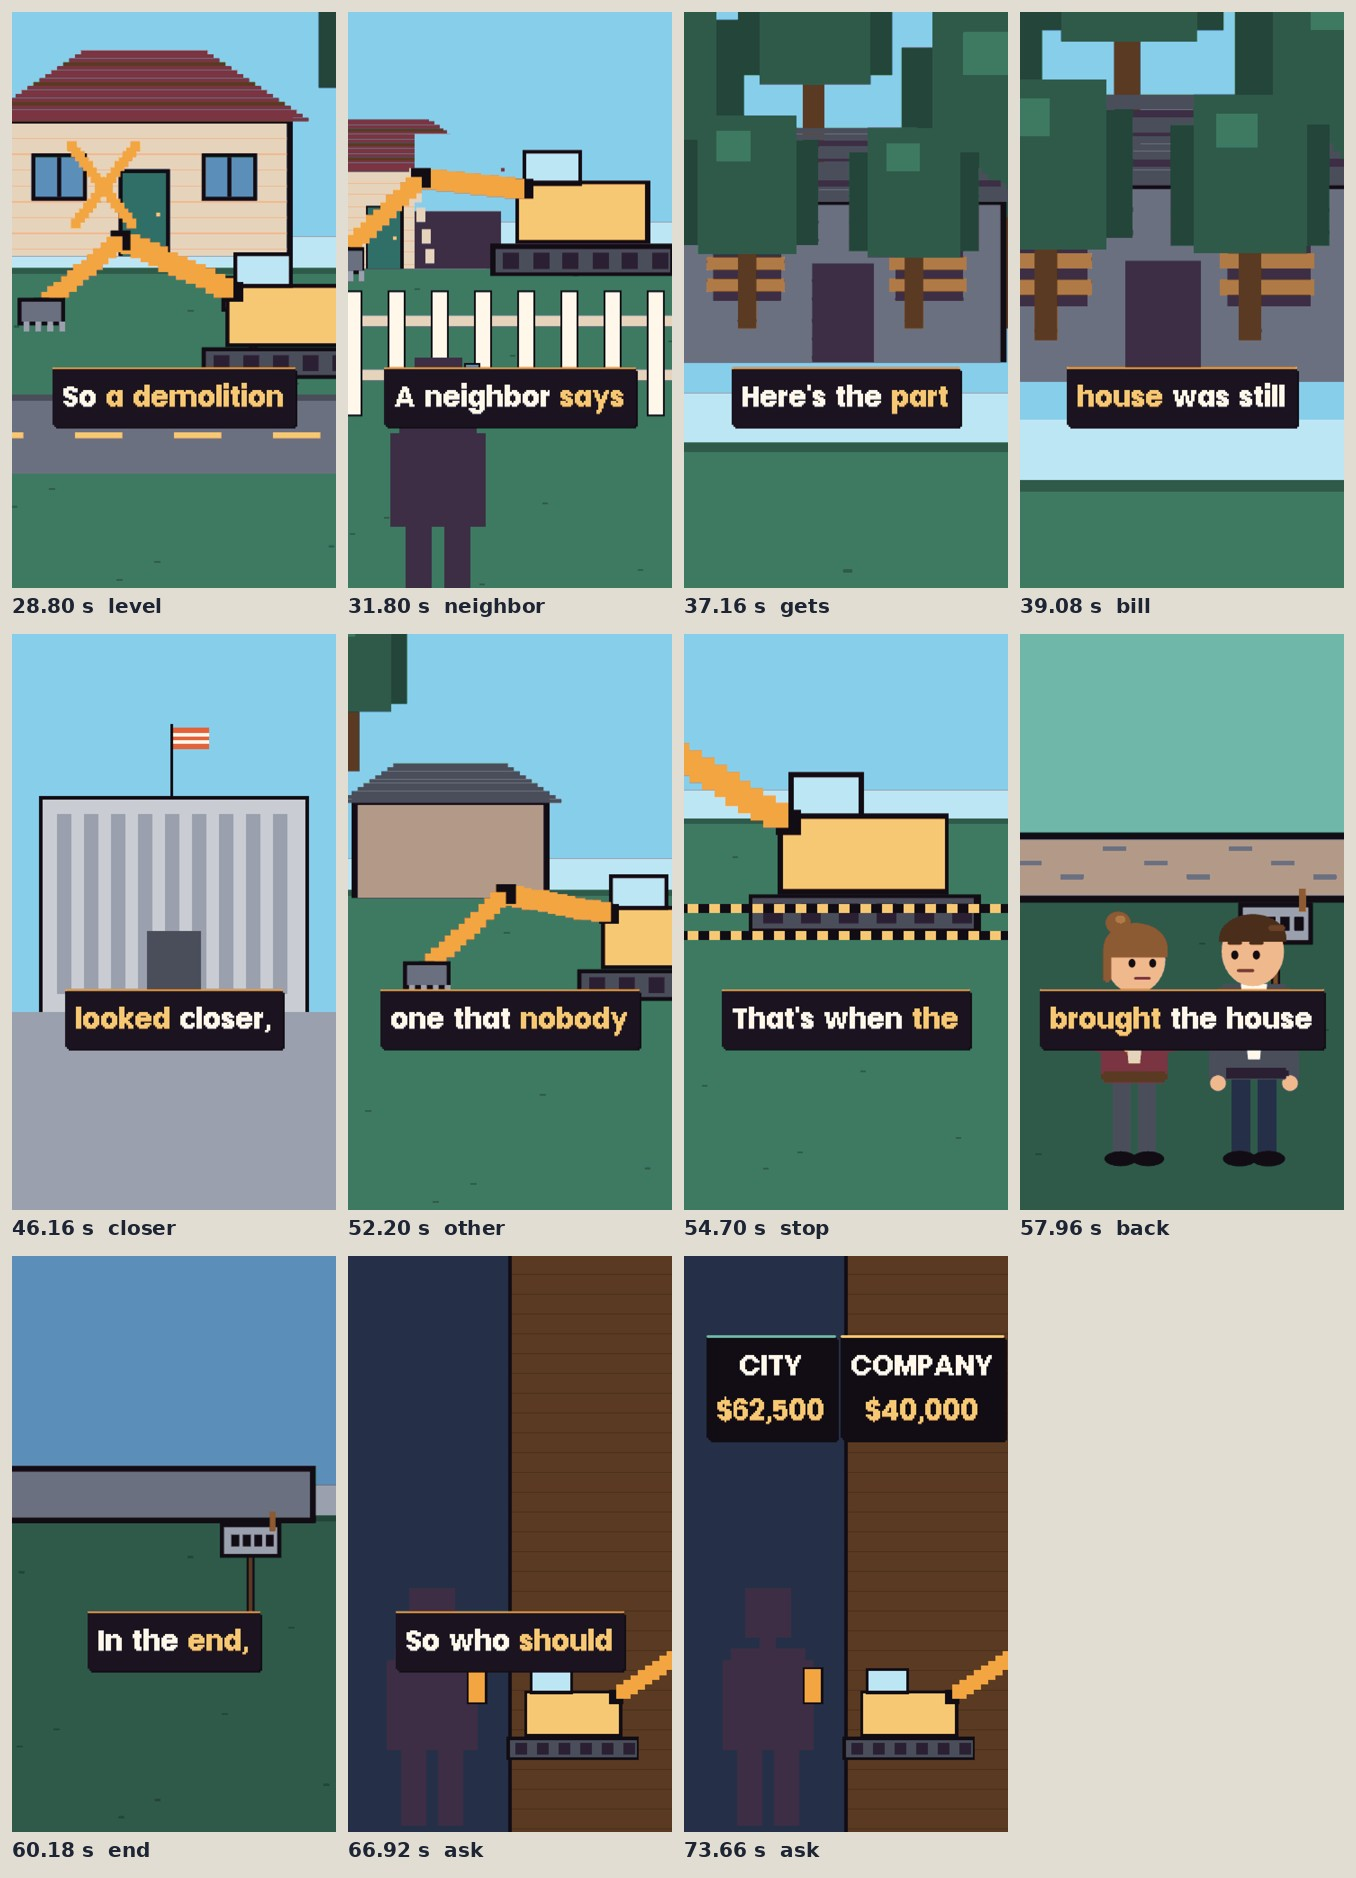
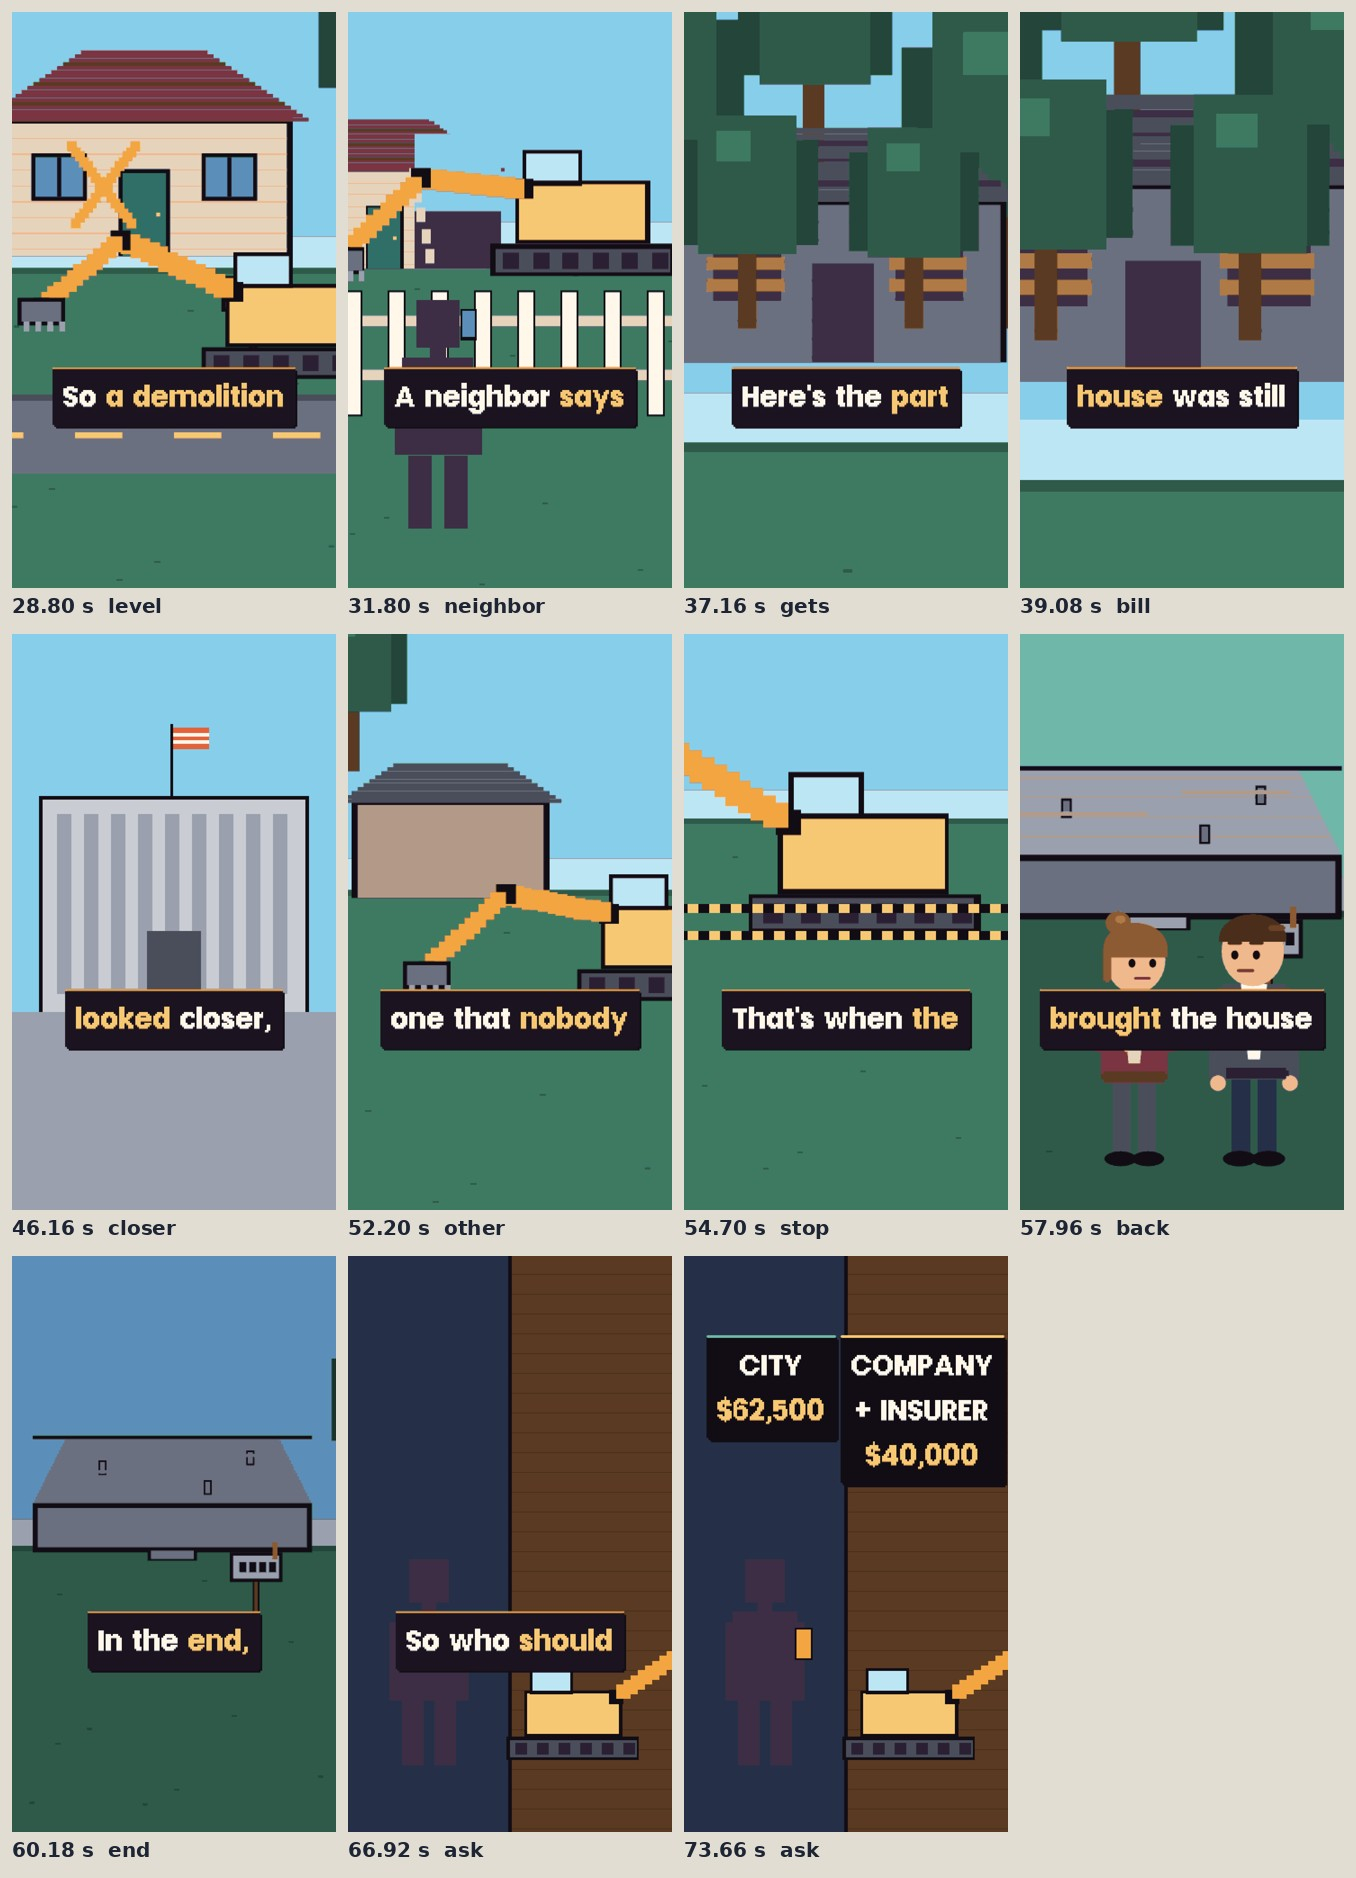
studio: 2026-12-05-wrong-house render 5 (render critic, viewer and facts r0 fixes: heads above captions, faded mailbox, COMPANY + INSURER, wire copy in Source)
Claude-Session: https://claude.ai/code/session_01XMn4eLMGN11Nq3bXeBgpFU

diff --git a/video/studio/videos/2026-12-05-wrong-house/04_scene/scene.js b/video/studio/videos/2026-12-05-wrong-house/04_scene/scene.js
@@ -70,7 +70,7 @@ const mailbox = (P, x, y, s = 1, faded = false) => {
   P(x - 2 * s, y, 4 * s, 46 * s, INK); P(x - 1 * s, y, 2 * s, 46 * s, '#8C5A33');
   P(x - 16 * s, y - 16 * s, 32 * s, 18 * s, INK); P(x - 14 * s, y - 14 * s, 28 * s, 14 * s, faded ? '#8E949E' : '#C9CCD3');
   P(x + 10 * s, y - 22 * s, 3 * s, 10 * s, faded ? '#7A3442' : RED);
-  if (faded) { for (let i = 0; i < 4; i++) P(x - 10 * s + i * 6 * s, y - 9 * s, 3 * s, 4 * s, '#A6ABB4'); }
+  if (faded) { P(x - 14 * s, y - 14 * s, 28 * s, 14 * s, '#7E848C'); P(x - 10 * s, y - 6 * s, 8 * s, 4 * s, '#8C5A33'); P(x + 2 * s, y - 12 * s, 6 * s, 3 * s, '#6E5040'); for (let i = 0; i < 4; i++) P(x - 10 * s + i * 6 * s, y - 9 * s, 3 * s, 2 * s, '#868C94'); }
   else { for (let i = 0; i < 4; i++) P(x - 10 * s + i * 6 * s, y - 10 * s, 4 * s, 6 * s, INK); }
 };
 /* their house: a small three-bedroom house; st 'whole', 'hit' (a bite out of it), 'rubble' */
@@ -87,6 +87,8 @@ const home = (P, x, y, s = 1, st = 'whole') => {
   P(x + 62 * s, y + 26 * s, 26 * s, 44 * s, INK); P(x + 64 * s, y + 28 * s, 22 * s, 42 * s, DTEAL); P(x + 81 * s, y + 48 * s, 2 * s, 2 * s, GOLD);
   if (st === 'hit') { P(x + 96 * s, y - 24 * s, 60 * s, 94 * s, SKY); P(x + 96 * s, y + 30 * s, 60 * s, 40 * s, '#3F3A38'); for (let i = 0; i < 5; i++) P(x + (92 + i * 3) * s, y + (i * 14) * s, 6 * s, 10 * s, SAND); }
 };
+/* brush: tall weeds around a point */
+const brush = (P, x, y) => { for (let i = 0; i < 16; i++) { const h = 10 + (i * 7) % 14; P(x - 40 + i * 5, y - h, 3, h, i % 2 ? '#2F5A4A' : '#24453A'); } };
 /* the condemned house, back in the trees: boarded, sagging */
 const wreck = (P, x, y, s = 1) => {
   const w = 120 * s, h = 60 * s;
@@ -105,7 +107,13 @@ const digger = (P, x, y, s = 1, a = 0, f = -1) => {
   P(tx - 12 * s, ty - 4 * s, 24 * s, 14 * s, INK); P(tx - 10 * s, ty - 2 * s, 20 * s, 10 * s, '#6B7080'); for (let i = 0; i < 4; i++) P(tx - 9 * s + i * 6 * s, ty + 8 * s, 3 * s, 5 * s, '#9AA0AD');
 };
 /* the slab: a grey pad with the lawn grown up to it */
-const slab = (P, x, y, s = 1) => { P(x, y, 170 * s, 30 * s, INK); P(x + 3 * s, y + 3 * s, 164 * s, 24 * s, '#B8B6AE'); for (let i = 0; i < 9; i++) P(x + (8 + i * 18) * s, y + (6 + (i % 3) * 6) * s, 10 * s, 2 * s, '#9C9A92'); };
+const slab = (P, x, y, s = 1) => {   /* a foundation pad seen from the street: the top face going back in perspective, the front edge, a step, pipe stubs */
+  for (let r = 0; r < 40; r++) { const inset = Math.round((40 - r) * 0.5) * s; P(x + inset, y - (40 - r) * s, 170 * s - 2 * inset, 1 * s, r % 9 === 4 ? '#B4B2AA' : '#C9C7BF'); }
+  P(x, y - 41 * s, 170 * s, 2 * s, INK); P(x, y, 170 * s, 30 * s, INK); P(x + 3 * s, y + 3 * s, 164 * s, 24 * s, '#A8A69E');
+  P(x + 70 * s, y + 27 * s, 30 * s, 8 * s, INK); P(x + 72 * s, y + 29 * s, 26 * s, 5 * s, '#C9C7BF');
+  [[40, -26], [104, -14], [130, -32]].forEach(([a, b]) => { P(x + a * s, y + b * s, 5 * s, 9 * s, INK); P(x + (a + 1) * s, y + (b + 1) * s, 3 * s, 7 * s, '#9AA0AD'); });
+  P(x + 20 * s, y - 20 * s, 60 * s, 2 * s, '#B4B2AA'); P(x + 96 * s, y - 30 * s, 50 * s, 2 * s, '#B4B2AA');
+};
 /* the street scene: their house (left), the condemned house back in the trees (right), two mailboxes */
 const street = (k, st = 'whole', dim = 0, f = [180, 300, 1.5], armA = null, mark = 0) => {
   focus(k, f[0], f[1], f[2], (P) => {
@@ -115,7 +123,7 @@ const street = (k, st = 'whole', dim = 0, f = [180, 300, 1.5], armA = null, mark
     wreck(P, 222, 236, 0.9);
     tree(P, 246, 210, 0.8); tree(P, 300, 214, 0.75);
     if (st === 'slab') slab(P, 14, 290, 1); else home(P, 20, 240, 1, st);
-    if (mark) { const c = clamp(mark); for (let i = 0; i < Math.round(16 * c); i++) { P(56 + i * 2, 252 + i * 2.6, 5, 5, ORANGE); P(88 - i * 2, 252 + i * 2.6, 5, 5, ORANGE); } }
+    if (mark && st !== 'rubble') { const c = clamp(mark); for (let i = 0; i < Math.round(16 * c); i++) { P(56 + i * 2, 252 + i * 2.6, 5, 5, ORANGE); P(88 - i * 2, 252 + i * 2.6, 5, 5, ORANGE); } }
     mailbox(P, 150, 336, 1, false); mailbox(P, 214, 330, 0.8, true);
     P(-400, 380, 1200, 40, '#5E6470'); P(-400, 380, 1200, 3, '#4A4E5A'); for (let x = -390; x < 760; x += 50) P(x, 399, 24, 3, GOLD);
     if (armA !== null) digger(P, 170, 372, 1, armA, -1);
@@ -155,8 +163,8 @@ const couple = (k, x, sc, pose, mood, o = {}) => {
 const worker = (k, x, y, s = 1, spray = false) => { shape2(k, x, y, s); const c = k.ctx, q = (v) => Math.round(v / 3) * 3; c.fillStyle = INK; c.fillRect(q(x + 50 * s), q(y - 230 * s), q(30 * s), q(54 * s)); c.fillStyle = ORANGE; c.fillRect(q(x + 53 * s), q(y - 227 * s), q(24 * s), q(48 * s)); if (spray) { c.fillStyle = 'rgba(242,165,65,0.6)'; for (let i = 0; i < 8; i++) c.fillRect(q(x + 82 * s + i * 12), q(y - 250 * s - (i % 3) * 12), 9, 9); } };
 
 const L_CITY = {cx: 290, bg: INK, rule: TEAL}, L_CO = {cx: 795, bg: INK, rule: GOLD};
-const CITY = [['CITY', 132, CREAM], ['$62,500', 132, GOLD]], CO = [['COMPANY', 132, CREAM], ['$40,000', 132, GOLD]];
-const LOT = [110, 318, 2.1], LOTC = [110, 318, 2.6];   /* the lot (slab and mailbox), wide and close */
+const CITY = [['CITY', 132, CREAM], ['$62,500', 132, GOLD]], CO = [['COMPANY', 132, CREAM], ['+ INSURER', 132, CREAM], ['$40,000', 132, GOLD]];
+const LOT = [100, 300, 1.8], LOTC = [110, 310, 2.4];   /* the lot (slab and mailbox), wide and close */
 const lot = (k, f, dim = 0) => { focus(k, f[0], f[1], f[2], (P) => { groundW(P, 0); tree(P, 230, 190, 1.2); tree(P, -40, 196, 1.1); slab(P, 14, 290, 1); mailbox(P, 150, 336, 1, false); }); dimmer(k, dim); };
 const woods = (P) => { groundW(P, 0); tree(P, 214, 168, 1.1); tree(P, 330, 176, 1.2); tree(P, 268, 150, 0.9); wreck(P, 222, 236, 0.9); tree(P, 246, 210, 0.8); tree(P, 300, 214, 0.75); };
 
@@ -217,7 +225,7 @@ window.SCENE = {
       const t0 = k.S('trees'), tM = W(k, 'trees', /^mailbox/i, 2.2);
       k.cut(t0);
       if (T < tM) focus(k, 275, 262, 3, woods);
-      else { k.cut(tM); push(k, T, tM, () => focus(k, 214, 322, 6, (P) => { woods(P); mailbox(P, 214, 330, 0.8, true); }), 0.08, 1000); }
+      else { k.cut(tM); push(k, T, tM, () => focus(k, 214, 322, 5, (P) => { groundW(P, 0); P(150, 250, 140, 66, '#2F5A4A'); mailbox(P, 214, 330, 0.8, true); brush(P, 214, 340); }), 0.08, 1000); }
       return {host: false};
     },
     /* ---- mark: the city worker sprays an orange X on their house ---- */
@@ -225,7 +233,7 @@ window.SCENE = {
       const t0 = k.S('mark'), tM = W(k, 'mark', /^marked/i, 0.9);
       k.cut(t0);
       focus(k, 95, 278, 3.1, (P) => { groundW(P, 0); home(P, 20, 240, 1, 'whole'); const c = clamp((T - tM) / 1.2); for (let i = 0; i < Math.round(16 * c); i++) { P(56 + i * 2, 252 + i * 2.6, 5, 5, ORANGE); P(88 - i * 2, 252 + i * 2.6, 5, 5, ORANGE); } });
-      worker(k, 860, 1980, 2.3, T >= tM && T < tM + 1.3);
+      worker(k, 860, 1700, 2.2, T >= tM && T < tM + 1.3);   /* the head above the captions (render critic r0) */
       return {host: false};
     },
     /* ---- level: the arm comes down, the house breaks, dust ---- */
@@ -242,7 +250,7 @@ window.SCENE = {
       const t0 = k.S('neighbor');
       k.cut(t0);
       focus(k, 170, 330, 2.0, (P) => { groundW(P, Math.floor(T * 30)); home(P, 40, 270, 0.8, 'hit'); digger(P, 210, 330, 1.1, 0.5 + 0.4 * Math.sin(T * 3), -1); fence(P, 352); });
-      shape2(k, 300, 1980, 2.4); const c = k.ctx; c.fillStyle = INK; c.fillRect(387, 1170, 54, 105); c.fillStyle = '#5B8FB9'; c.fillRect(393, 1176, 42, 87);
+      shape2(k, 300, 1720, 2.2); const c = k.ctx; c.fillStyle = INK; c.fillRect(375, 990, 54, 105); c.fillStyle = '#5B8FB9'; c.fillRect(381, 996, 42, 87);   /* head and phone above the captions (render critic r0) */
       return {host: false};
     },
     /* ---- gets: the condemned house, still standing ---- */
@@ -263,7 +271,7 @@ window.SCENE = {
     closer: (k, T) => {
       const t0 = k.S('closer'), tF = W(k, 'closer', /^found/i, 1.8);
       k.cut(t0);
-      if (T < tF) hall(k, 0); else { k.cut(tF); const c = k.ctx; c.save(); c.translate(540, 900); c.scale(2.4, 2.4); c.translate(-540, -1120); hall(k, 0.1); c.restore(); }
+      if (T < tF) hall(k, 0); else { k.cut(tF); focus(k, 130, 320, 1.6, (P) => { groundW(P, 0); tree(P, 40, 170, 1.0); P(40, 270, 100, 50, INK); P(43, 273, 94, 47, '#B09A7C'); for (let i = 0; i < 10; i++) P(34 + i * 3, 270 - i * 2, 112 - i * 6, 2, '#5A524A'); digger(P, 250, 372, 1, 0.1 + 0.05 * Math.sin(T * 2), -1); }); }
       return {host: false};
     },
     /* ---- other: another lot, the same machine on a small back building ---- */
@@ -308,7 +316,7 @@ window.SCENE = {
       const t0 = k.S('ask'), tCi = W(k, 'ask', /^city/i, 2.3), tCo = W(k, 'ask', /^company/i, 4.7);
       k.cut(t0);
       split(k);
-      worker(k, 280, 1900, 2.3, false);
+      worker(k, 270, 1700, 2.0, false);
       digger(px(k), 250, 560, 1.6, 0.0, 1);
       if (T >= tCi) steps(k, T, [[tCi, CITY, 1]], L_CITY, 264);
       if (T >= tCo) steps(k, T, [[tCo, CO, 1]], L_CO, 264);

diff --git a/video/studio/videos/2026-12-05-wrong-house/03_cues/cues.md b/video/studio/videos/2026-12-05-wrong-house/03_cues/cues.md
@@ -15,7 +15,7 @@ A plain cut to the house as it was: small, three bedrooms, a red roof, the mailb
 The street, wide: their house on the left, the condemned house on the right, set back in the trees.
 
 ## trees "That one sat back" [sfx: blip]
-Close on the condemned house in the trees, boarded; on "mailbox" closer on its faded mailbox, the number barely there.
+Close on the condemned house in the trees, boarded; on "mailbox" closer on its faded, rusted mailbox in the weeds, no number readable.
 
 ## mark "and a city worker marked" [sfx: whoosh]
 A plain cut to their house, close: a city worker (a plain dark shape, no source describes them) sprays an orange X on the wall.
@@ -33,7 +33,7 @@ A plain cut, close: the condemned house, still standing in the trees.
 The condemned house held; on "bill" a plain cut to a bill on a desk, and on "over" the plate: OVER $6,000.
 
 ## closer "When the city looked" [sfx: whoosh]
-A plain cut to city hall, its flag, wide; on "found" closer on the doors.
+A plain cut to city hall, its flag, wide; on "found" a plain cut to another lot far off, a small back building and the same excavator beside it.
 
 ## other "one that nobody" [sfx: stamp]
 A plain cut to another lot: the same excavator knocking down a small back building.
@@ -48,4 +48,4 @@ The couple close at the slab again, quiet; the mailbox beside them.
 The slab, wide; on "hundred" the plate lands: $102,500; on "city" a second row: CITY $62,500.
 
 ## ask "So who should have" [sfx: blip]
-The frame splits: the city worker with the orange can on the left, the excavator on the right. On "city" the left label: CITY $62,500; on "company" the right label: COMPANY $40,000. Ends 1 s after the last word.
+The frame splits: the city worker with the orange can on the left, the excavator on the right. On "city" the left label: CITY $62,500; on "company" the right label: COMPANY + INSURER $40,000. Ends 1 s after the last word.
